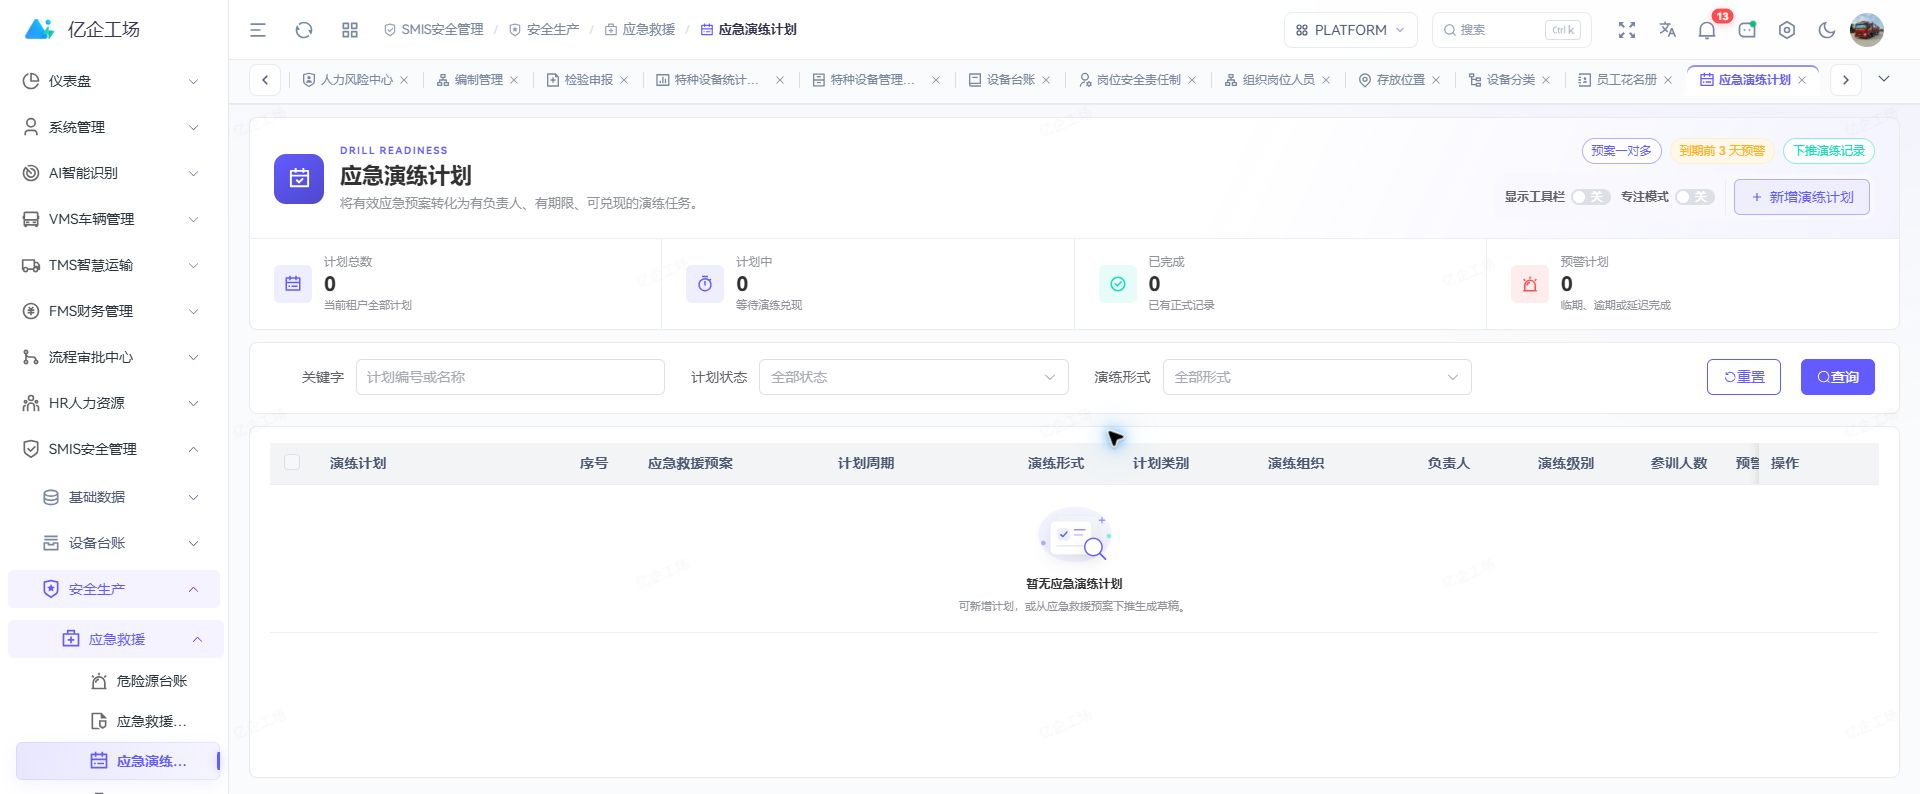
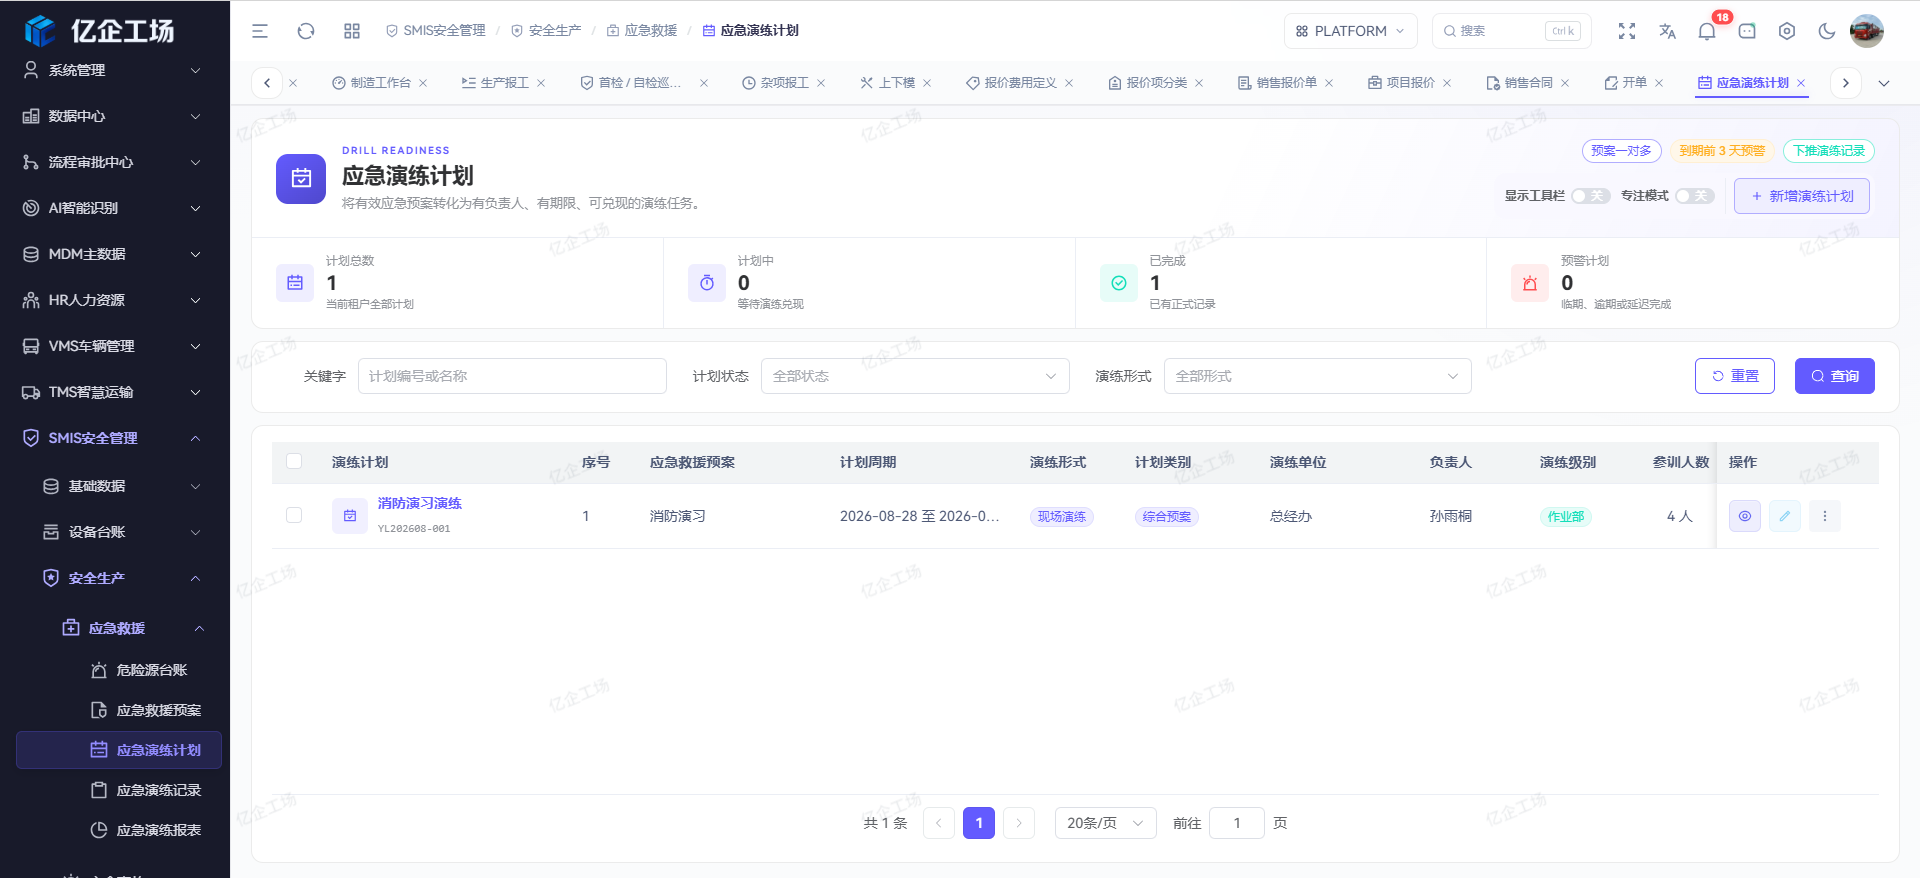
feat: refresh official website product screenshots

diff --git a/src/App.vue b/src/App.vue
@@ -18,27 +18,27 @@ const showcases = [
     title: '把每一程运输，放进同一个工作台。',
     description: '订单、运力、在途与结算形成连续的业务视图，让调度和管理都能看到当前进展。',
     image: 'dashboard.png',
-    width: 1280,
-    height: 720,
+    width: 1920,
+    height: 878,
     alt: 'Art Supabase Pro 运输运营工作台真实截图',
   },
   {
-    label: '智能协同',
-    title: '让 AI 进入业务流程，也留在治理边界内。',
-    description: '识别、建议、研判与审计相互衔接；关键业务数据始终由有权限的人确认。',
-    image: 'ai-order.png',
-    width: 1280,
-    height: 720,
-    alt: 'Art Supabase Pro AI 智能填单真实截图',
+    label: '运输开单',
+    title: '从一张运输单，开启协同的每一步。',
+    description: '运输路线、收发货信息与费用操作集中在同一工作区，减少跨页面切换。',
+    image: 'order-entry.png',
+    width: 1920,
+    height: 878,
+    alt: 'Art Supabase Pro 货物运输单开单页面真实截图',
   },
   {
     label: '安全生产',
-    title: '从设备与资质，到每一次应急演练。',
-    description: '分散的安全资料和执行记录，在统一平台内得到结构化管理和追踪。',
+    title: '让每一次应急演练，有计划、有记录。',
+    description: '应急演练计划、执行状态与责任信息集中呈现，让安全任务有据可查。',
     image: 'safety.png',
     width: 1920,
-    height: 794,
-    alt: 'Art Supabase Pro 安全生产管理真实截图',
+    height: 878,
+    alt: 'Art Supabase Pro 应急演练计划页面真实截图',
   },
 ] as const
 const activeShowcase = ref(0)
@@ -128,8 +128,8 @@ function closeMenu() {
               </div>
               <img
                 :src="`${base}dashboard.png`"
-                width="1280"
-                height="720"
+                width="1920"
+                height="878"
                 alt="Art Supabase Pro 运输运营工作台真实截图"
                 fetchpriority="high"
               />
@@ -295,7 +295,13 @@ function closeMenu() {
               </button>
             </div>
             <div class="showcase-view">
-              <div class="showcase-image">
+              <a
+                class="showcase-image"
+                :href="`${base}${currentShowcase.image}`"
+                target="_blank"
+                rel="noopener noreferrer"
+                :aria-label="`查看${currentShowcase.label}截图原图`"
+              >
                 <img
                   :key="currentShowcase.image"
                   :src="`${base}${currentShowcase.image}`"
@@ -304,7 +310,7 @@ function closeMenu() {
                   :alt="currentShowcase.alt"
                   loading="lazy"
                 />
-              </div>
+              </a>
               <div class="showcase-caption">
                 <div>
                   <span>{{ currentShowcase.label }}</span>

diff --git a/src/style.css b/src/style.css
@@ -1129,6 +1129,7 @@ img {
 }
 
 .showcase-image {
+  display: block;
   height: 343px;
   overflow: hidden;
   background: #dce9f3;

diff --git a/README.md b/README.md
@@ -34,7 +34,7 @@ pnpm preview
 
 - 模块名称、简介和仓库链接：`src/modules.ts`。新增或修改子仓后同步更新此文件。
 - 页面结构与正文：`src/App.vue`；视觉样式：`src/style.css`。
-- 产品截图：`public/`。这些图片来自主项目的真实运行截图；更新时同步检查替代文本和内容描述。
+- 产品截图：`public/`。`dashboard.png`、`order-entry.png`、`safety.png` 分别对应主仓的 `screenshort/02-dashboard.png`、`03-smart-order.png`、`15-smis-emergency-drill-plan.png`。更新时同步检查替代文本和内容描述。
 - 官网只介绍现有能力及建设方向。MES、WMS 等仍在建设的业务，不用“已上线”等措辞代替真实状态。
 
 ## 发布
